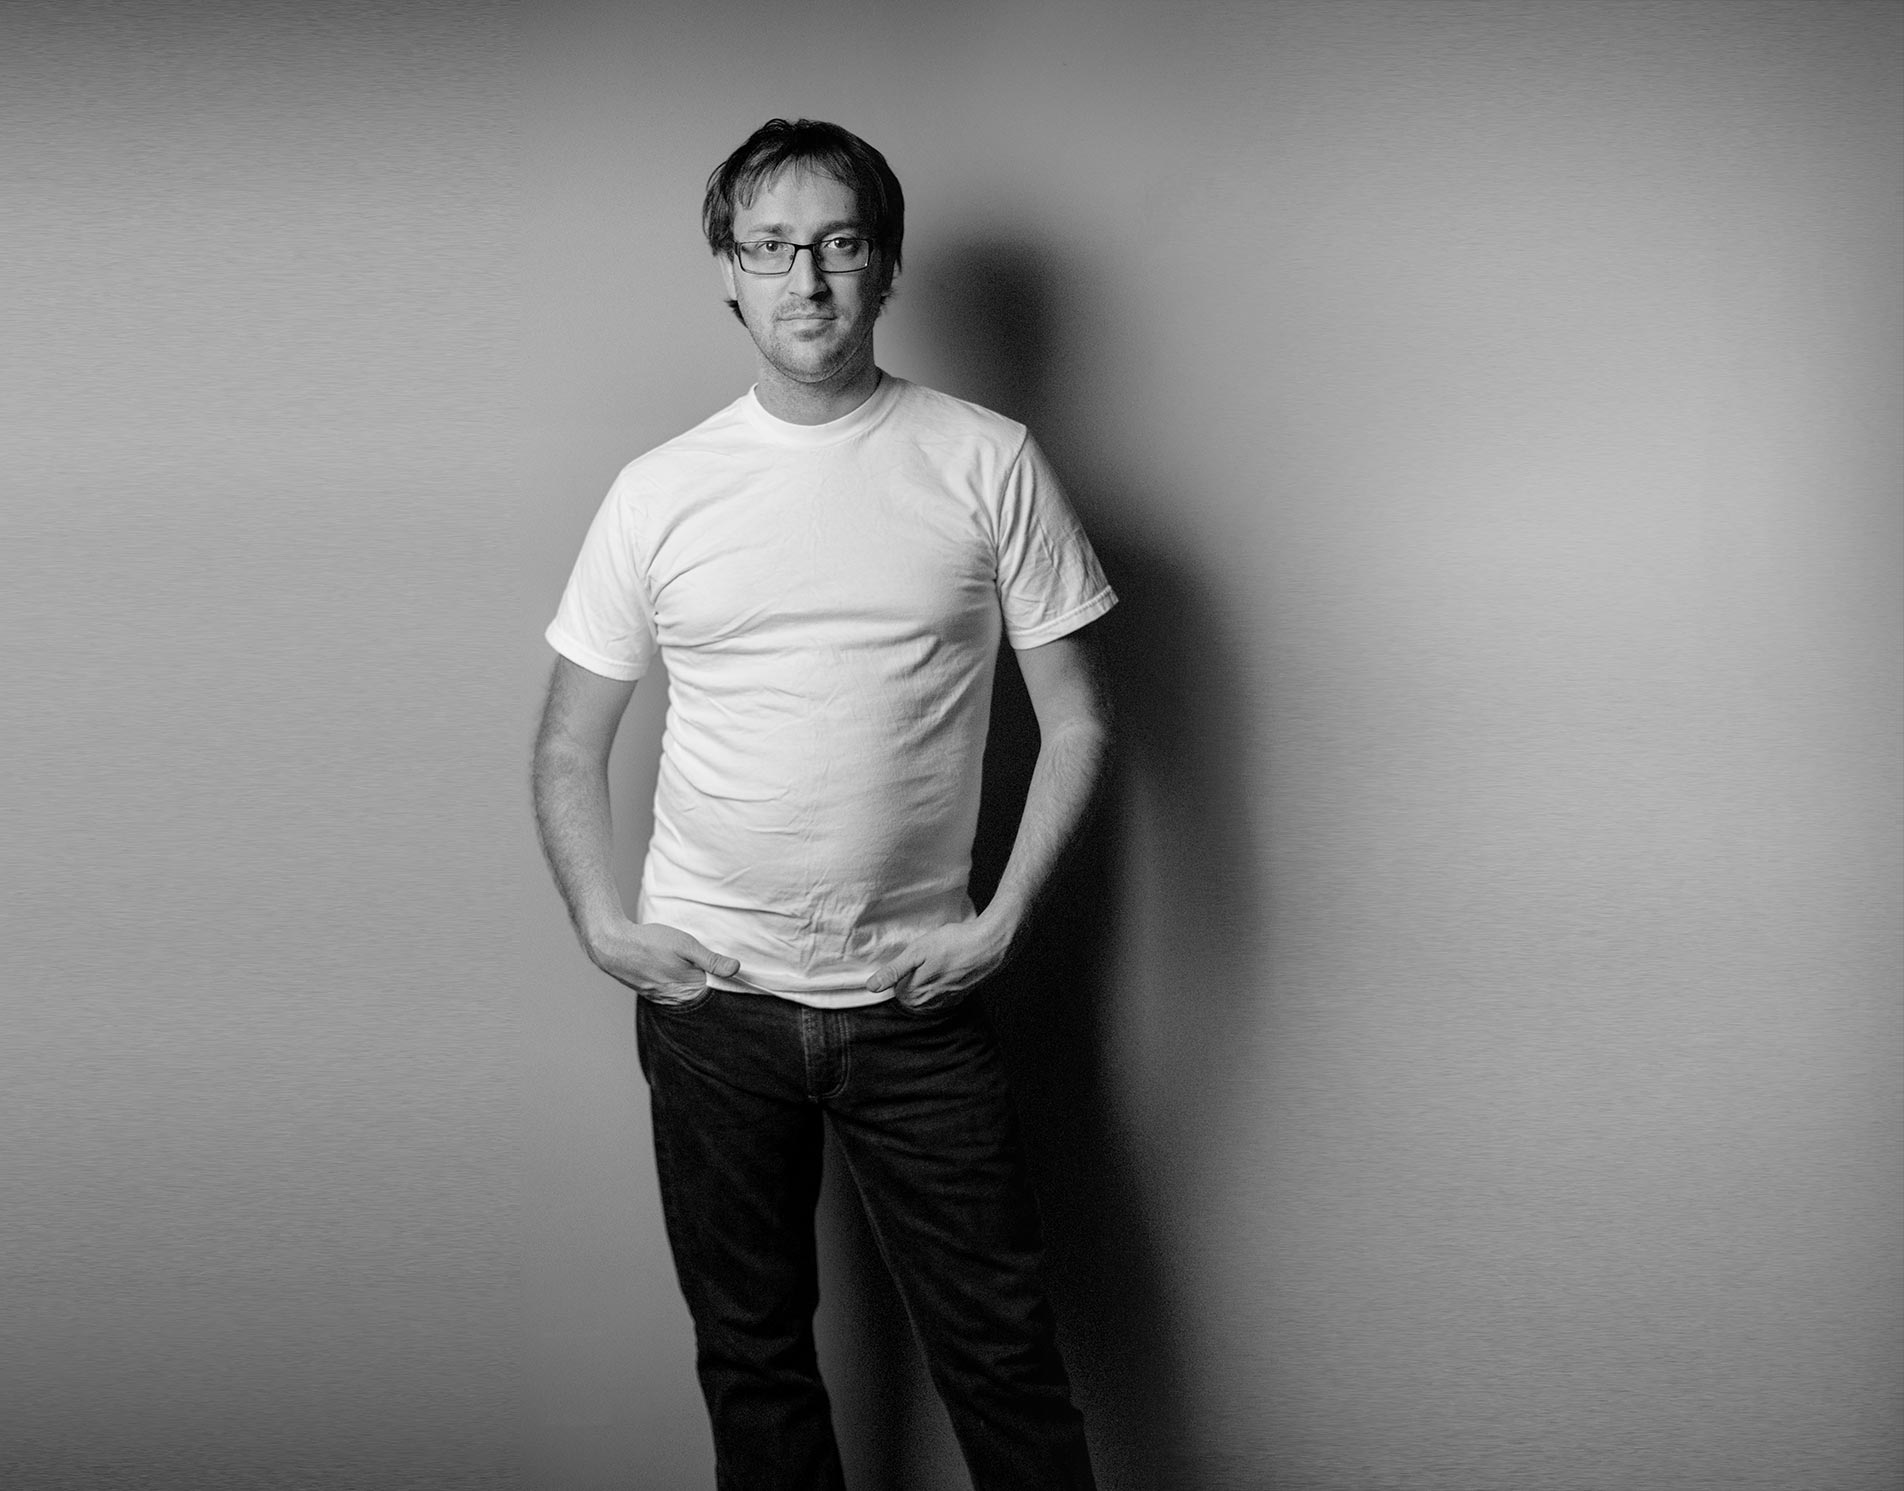
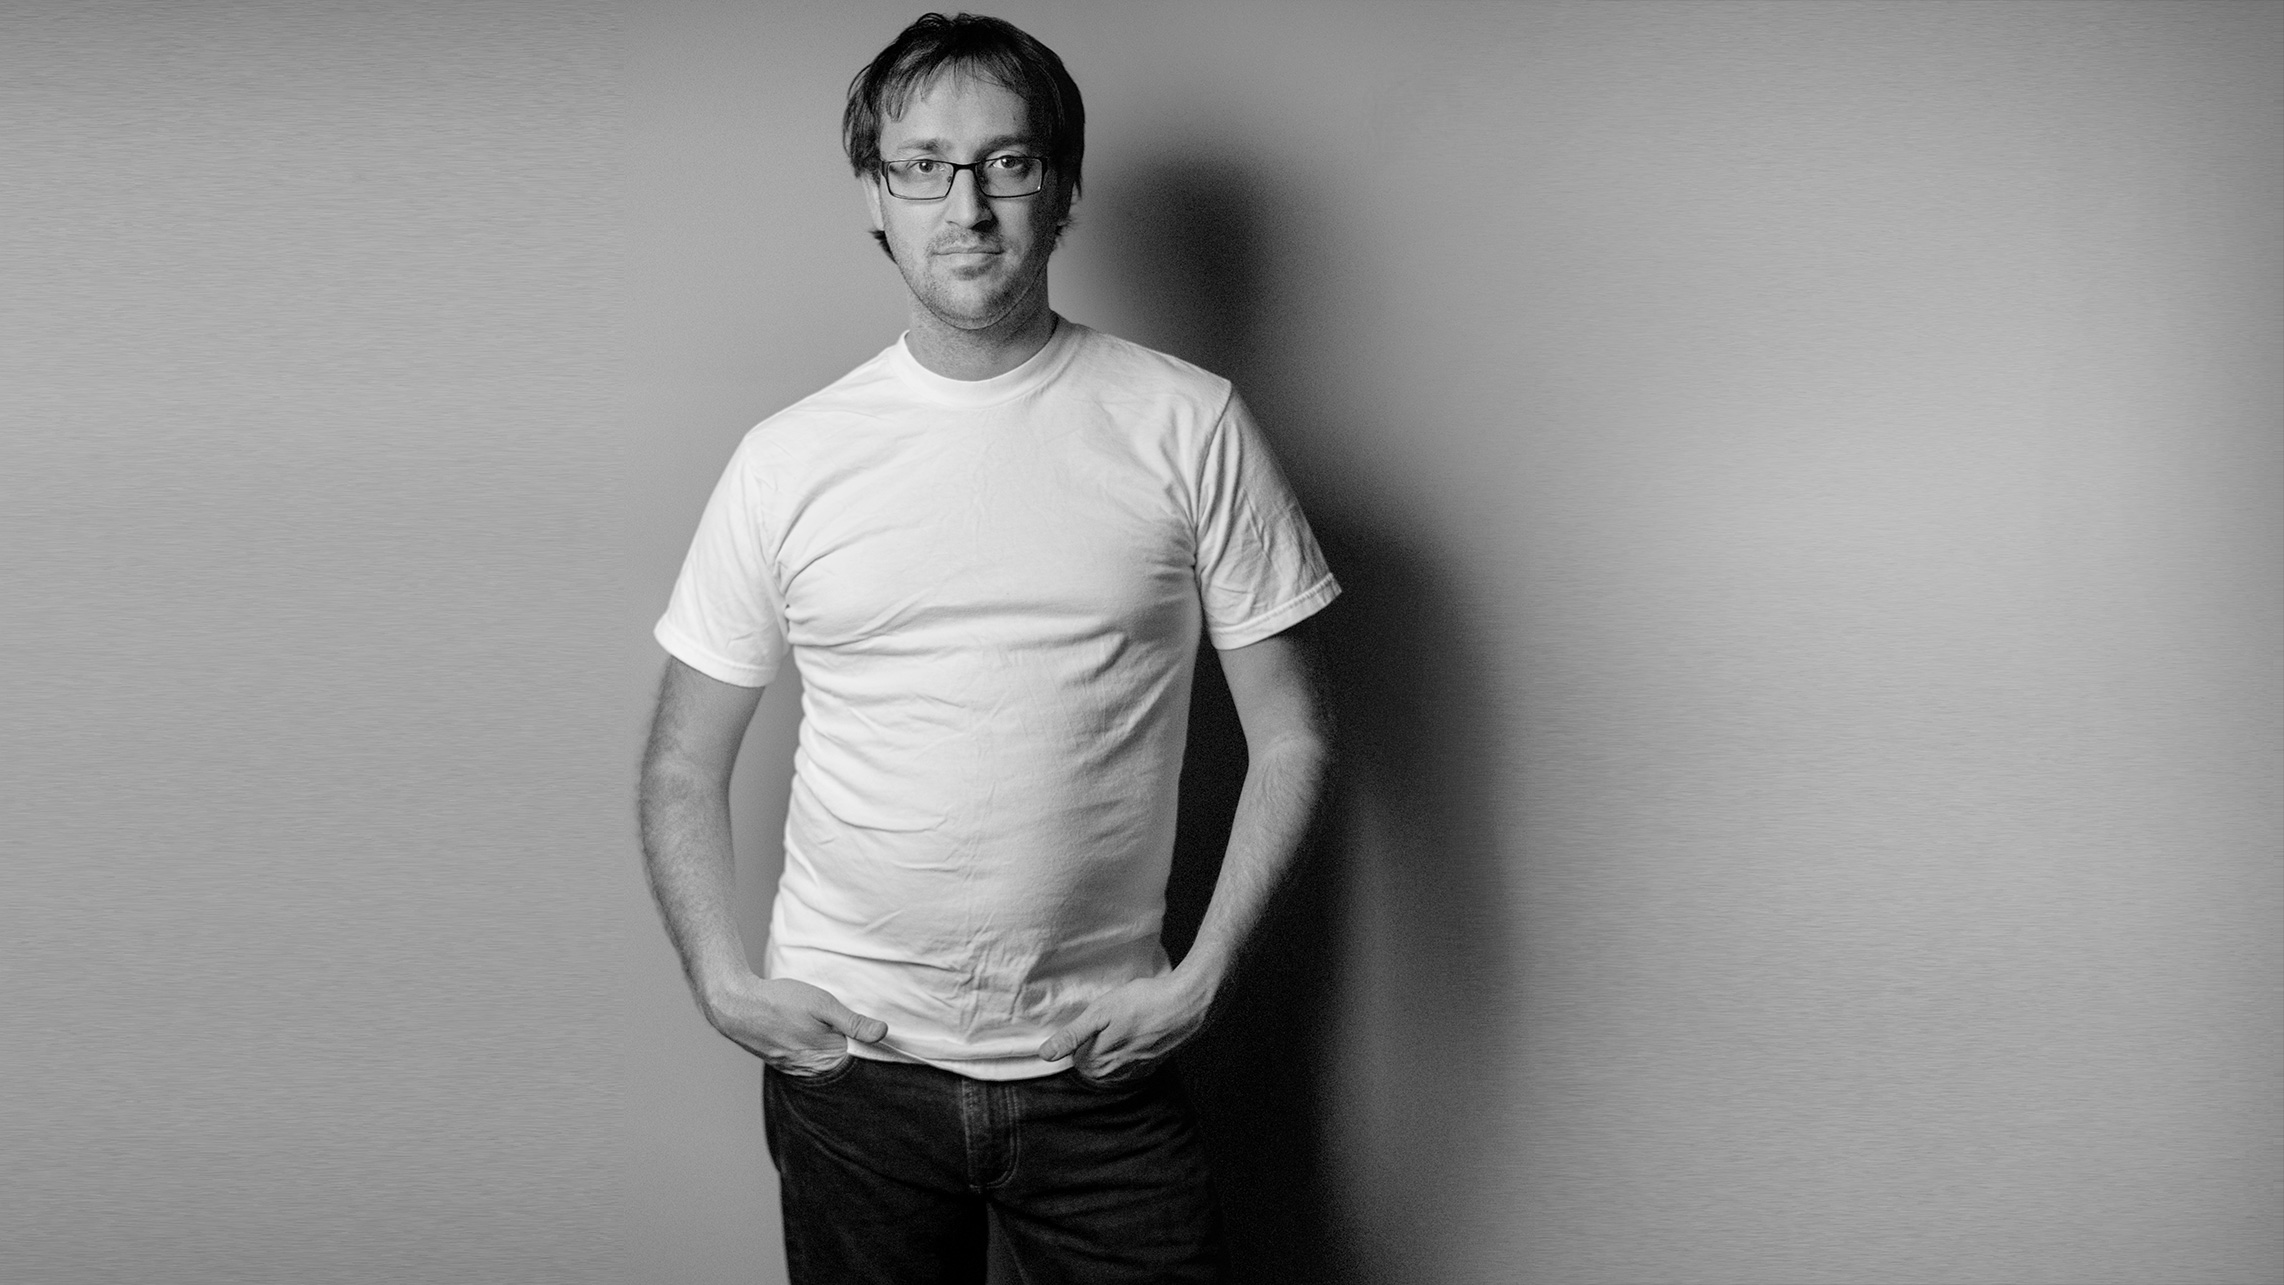
fixed background image

diff --git a/public_html/zakabad.css b/public_html/zakabad.css
@@ -3,10 +3,13 @@ body,html{
 	min-width: 100%;
 }
 body {
-	background-image: url(public_html/documentation/images/zakportraitbwpwp.jpg);
+	background: url(documentation/images/zakportraitbwpwp.jpg);
 	background-repeat: no-repeat;
 	-webkit-background-size: cover;
 	-moz-background-size: cover;
 	-o-background-size: cover;
 	background-size:  cover;
+	 background-position: center 0;
+
+
 }

diff --git a/public_html/index.php b/public_html/index.php
@@ -17,6 +17,5 @@
 			<title>Zak Abad </title>
 		</head>
 		<body>
-			<img src="zakabad.css">
 		</body>
 	</html>
